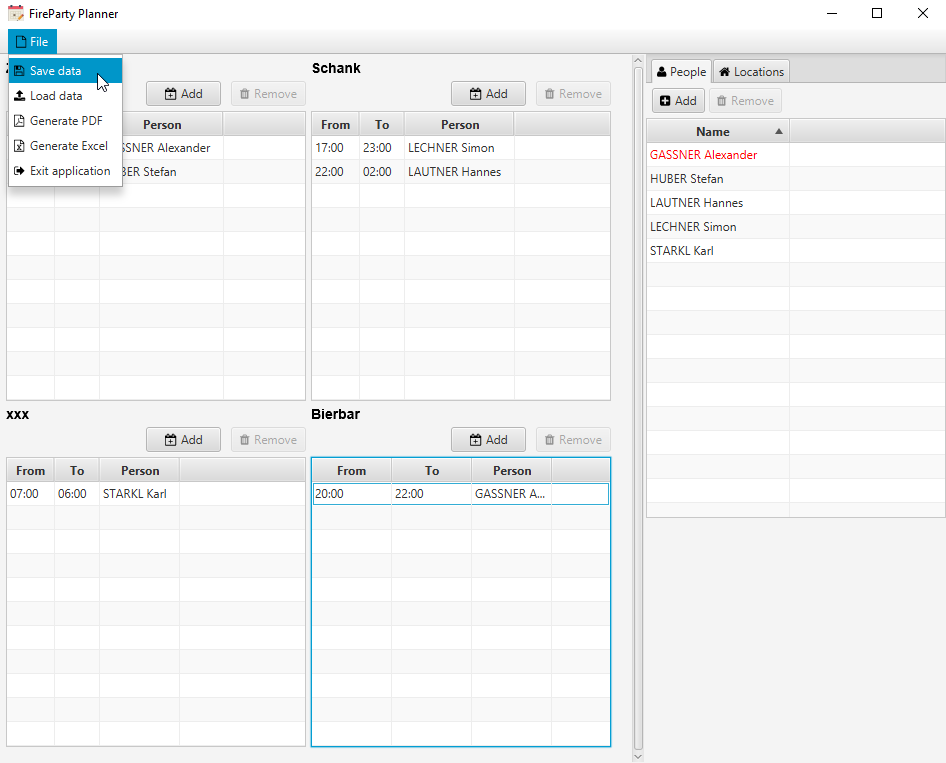
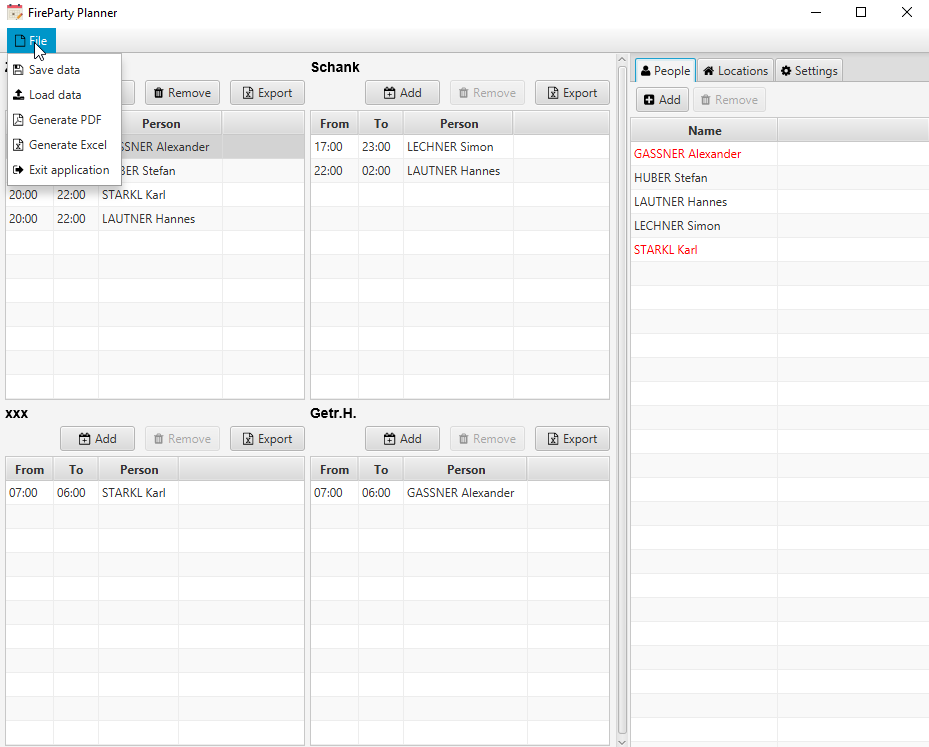
add sheet name; add single excel export;

diff --git a/src/main/java/at/agsolutions/fireparty/ui/RootPane.java b/src/main/java/at/agsolutions/fireparty/ui/RootPane.java
@@ -1,10 +1,12 @@
 package at.agsolutions.fireparty.ui;
 
+import at.agsolutions.fireparty.FirePartyApplication;
 import at.agsolutions.fireparty.domain.Disposition;
 import at.agsolutions.fireparty.domain.Location;
 import at.agsolutions.fireparty.domain.PartyHour;
 import at.agsolutions.fireparty.domain.Person;
 import at.agsolutions.fireparty.service.IDataService;
+import at.agsolutions.fireparty.service.IExportService;
 import javafx.collections.FXCollections;
 import javafx.collections.ListChangeListener;
 import javafx.collections.ObservableList;
@@ -18,32 +20,38 @@ import javafx.scene.layout.VBox;
 import javafx.scene.text.Font;
 import javafx.scene.text.FontWeight;
 import javafx.scene.text.Text;
+import javafx.stage.FileChooser;
 import lombok.extern.slf4j.Slf4j;
 import org.kordamp.ikonli.fontawesome.FontAwesome;
 import org.kordamp.ikonli.javafx.FontIcon;
 
 import javax.inject.Inject;
+import java.io.File;
 import java.util.Collection;
+import java.util.List;
 import java.util.stream.Collectors;
 
 @Slf4j
 public class RootPane extends BorderPane {
 
 	private static final int SPACING = 5;
-	private static final int LOCATION_FONT_SIZE = 14;
-	private static final String LOCATION_FONT_FACE = "Arial";
+	private static final int FONT_SIZE_HEADER = 14;
+	private static final String FONT_FACE = "Arial";
 
 	private static final String PEOPLE_TAB_TITLE = "People";
 	private static final String LOCATIONS_TAB_TITLE = "Locations";
+	private static final String SETTINGS_TAB_TITLE = "Settings";
 
 	private final SidebarEditor<Person> personEditor;
 	private IDataService dataService;
+	private IExportService exportService;
 	private Model model = new Model();
 	private FlowPane flowPane;
 
 	@Inject
-	public RootPane(IDataService dataService) {
+	public RootPane(IDataService dataService, IExportService exportService) {
 		this.dataService = dataService;
+		this.exportService = exportService;
 
 		addMenuBar();
 		personEditor = new SidebarEditor<>(model.getPeople(), "person", Person::new, Person::getName);
@@ -101,7 +109,12 @@ public class RootPane extends BorderPane {
 		locationTab.setGraphic(new FontIcon(FontAwesome.HOME));
 		locationTab.setContent(new SidebarEditor<>(model.getLocations(), "locations", Location::new, Location::getName));
 
-		tabPane.getTabs().addAll(personTab, locationTab);
+		Tab settingsTab = new Tab(SETTINGS_TAB_TITLE);
+		settingsTab.setClosable(false);
+		settingsTab.setGraphic(new FontIcon(FontAwesome.GEAR));
+		settingsTab.setContent(new SettingsView(model));
+
+		tabPane.getTabs().addAll(personTab, locationTab, settingsTab);
 		return tabPane;
 	}
 
@@ -112,6 +125,8 @@ public class RootPane extends BorderPane {
 
 		model.getPeople().addAll(dataService.getPeople());
 		model.getLocations().addAll(dataService.getLocations());
+
+		model.getSheetName().set(dataService.getSheetName());
 
 		validateData();
 	}
@@ -136,7 +151,7 @@ public class RootPane extends BorderPane {
 	private void addLocationTo(Location loc) {
 		VBox box = new VBox(SPACING);
 		Text location = new Text(loc.getName());
-		location.setFont(Font.font(LOCATION_FONT_FACE, FontWeight.BOLD, LOCATION_FONT_SIZE));
+		location.setFont(Font.font(FONT_FACE, FontWeight.BOLD, FONT_SIZE_HEADER));
 		box.getChildren().add(location);
 
 		ObservableList<Disposition> dispos = FXCollections.observableArrayList();
@@ -164,13 +179,34 @@ public class RootPane extends BorderPane {
 			remove.setDisable(newSelection == null);
 		});
 
+		Button export = new Button("Export");
+		export.setGraphic(new FontIcon(FontAwesome.FILE_EXCEL_O));
+		export.setOnAction(e -> handleSingleExcelExport(loc.getName(), table.getItems()));
+
 		ButtonBar bar = new ButtonBar();
-		bar.getButtons().addAll(add, remove);
+		bar.getButtons().addAll(add, remove, export);
 		box.getChildren().add(bar);
 
 		box.getChildren().add(table);
 		flowPane.getChildren().add(box);
 		model.getTableData().put(table, dispos);
+	}
+
+	private void handleSingleExcelExport(final String name, final List<Disposition> dispositions) {
+		FileChooser fileChooser = new FileChooser();
+		fileChooser.getExtensionFilters().add(new FileChooser.ExtensionFilter("Excel files (*.xlsx)", "*.xlsx"));
+		fileChooser.setTitle("Save Excel");
+		fileChooser.setInitialFileName(name);
+		try {
+			File file = fileChooser.showSaveDialog(FirePartyApplication.getStage());
+			if (file != null) {
+				exportService.exportExcel(dispositions, file, name);
+			}
+		} catch (Exception ex) {
+			String message = "Excel export of " + name + " failed";
+			log.error(message, ex);
+			MessageProvider.showError(message);
+		}
 	}
 
 	private void validateData() {

diff --git a/src/main/java/at/agsolutions/fireparty/service/impl/ExportService.java b/src/main/java/at/agsolutions/fireparty/service/impl/ExportService.java
@@ -19,6 +19,8 @@ import org.apache.poi.xssf.usermodel.XSSFWorkbook;
 import java.io.File;
 import java.io.FileOutputStream;
 import java.io.IOException;
+import java.time.LocalDateTime;
+import java.time.format.DateTimeFormatter;
 import java.util.*;
 import java.util.stream.Collectors;
 
@@ -30,7 +32,7 @@ public class ExportService implements IExportService {
 	private static final String TIME_SEPARATOR = " - ";
 
 	@Override
-	public void exportPdf(final List<Disposition> dispositions, final File file) throws IOException {
+	public void exportPdf(final List<Disposition> dispositions, final File file, String title) throws IOException {
 		List<List> tableData = new ArrayList<>();
 		dispositions.stream().map(Disposition::getLocation).collect(Collectors.toCollection(TreeSet::new)).forEach(l -> {
 			tableData.add(new ArrayList<>(Arrays.asList(l.getName(), SPACES)));
@@ -61,7 +63,7 @@ public class ExportService implements IExportService {
 	}
 
 	@Override
-	public void exportExcel(final List<Disposition> dispositions, final File file) throws IOException {
+	public void exportExcel(final List<Disposition> dispositions, final File file, String title) throws IOException {
 		try (XSSFWorkbook workBook = new XSSFWorkbook(); FileOutputStream outputStream = new FileOutputStream(file)) {
 			Sheet sheet = workBook.createSheet(WorkbookUtil.createSafeSheetName("Dispositions"));
 
@@ -114,6 +116,11 @@ public class ExportService implements IExportService {
 			fontBold.setFontName("Arial");
 			fontBold.setBold(true);
 
+			Font titleFont = workBook.createFont();
+			titleFont.setFontHeightInPoints((short)12);
+			titleFont.setFontName("Arial");
+			titleFont.setBold(true);
+
 			CellStyle cellStyle = workBook.createCellStyle();
 			cellStyle.setBorderBottom(CellStyle.BORDER_THIN);
 			cellStyle.setBorderTop(CellStyle.BORDER_THIN);
@@ -144,7 +151,14 @@ public class ExportService implements IExportService {
 			cellStyleGrayRed.cloneStyleFrom(cellStyleGray);
 			cellStyleGrayRed.setFont(fontRed);
 
-			int rowIndex = 0;
+			CellStyle titleCellStyle = workBook.createCellStyle();
+			titleCellStyle.setFont(titleFont);
+			titleCellStyle.setVerticalAlignment(CellStyle.VERTICAL_CENTER);
+
+			CellStyle simpleCellStyle = workBook.createCellStyle();
+			simpleCellStyle.setFont(font);
+
+			int rowIndex = 1;
 			int columnIndex = 1;
 			Row headerRow = sheet.createRow(rowIndex);
 			headerRow.setRowStyle(cellStyleYellowBold);
@@ -232,6 +246,16 @@ public class ExportService implements IExportService {
 				current = nextHour;
 				columnIndex++;
 			}
+
+			Cell metaInfo = sheet.createRow(rowIndex + 2).createCell(0);
+			metaInfo.setCellValue("Created: " + LocalDateTime.now().format(DateTimeFormatter.ISO_LOCAL_DATE_TIME));
+			metaInfo.setCellStyle(simpleCellStyle);
+
+			Row titleRow = sheet.createRow(0);
+			titleRow.setHeightInPoints(25);
+			Cell titleCell = titleRow.createCell(0);
+			titleCell.setCellStyle(titleCellStyle);
+			titleCell.setCellValue(title);
 
 			workBook.write(outputStream);
 		}

diff --git a/src/main/java/at/agsolutions/fireparty/ui/FileMenu.java b/src/main/java/at/agsolutions/fireparty/ui/FileMenu.java
@@ -64,7 +64,8 @@ public class FileMenu extends Menu {
 							dataService.save(file, new SerializableFileHolder(
 									new ArrayList<>(model.getPeople()),
 									new ArrayList<>(model.getLocations()),
-									extractDispositions()));
+									extractDispositions(),
+									model.getSheetName().getValueSafe()));
 						} catch (Exception e) {
 							showAndLogError("Failed to save data", e);
 						}
@@ -76,7 +77,7 @@ public class FileMenu extends Menu {
 					try {
 						File file = fileChooser.showSaveDialog(FirePartyApplication.getStage());
 						if (file != null) {
-							exportService.exportPdf(extractDispositions(), file);
+							exportService.exportPdf(extractDispositions(), file, model.getSheetName().getValueSafe());
 						}
 					} catch (Exception ex) {
 						showAndLogError("Failed to generate overview PDF", ex);
@@ -88,7 +89,7 @@ public class FileMenu extends Menu {
 					try {
 						File file = fileChooser.showSaveDialog(FirePartyApplication.getStage());
 						if (file != null) {
-							exportService.exportExcel(extractDispositions(), file);
+							exportService.exportExcel(extractDispositions(), file, model.getSheetName().getValueSafe());
 						}
 					} catch (Exception ex) {
 						showAndLogError("Failed to generate overview Excel", ex);
@@ -111,6 +112,7 @@ public class FileMenu extends Menu {
 			FileChooser fileChooser = new FileChooser();
 			fileChooser.getExtensionFilters().add(new FileChooser.ExtensionFilter(extensionDescription, extensionFilter));
 			fileChooser.setTitle(chooserTitle);
+			fileChooser.setInitialFileName(model.getSheetName().getValueSafe());
 			action.accept(fileChooser);
 		});
 	}

diff --git a/src/main/java/at/agsolutions/fireparty/ui/SettingsView.java b/src/main/java/at/agsolutions/fireparty/ui/SettingsView.java
@@ -1,0 +1,37 @@
+package at.agsolutions.fireparty.ui;
+
+import javafx.geometry.Insets;
+import javafx.scene.control.Label;
+import javafx.scene.control.TextField;
+import javafx.scene.layout.GridPane;
+import javafx.scene.layout.Priority;
+
+public class SettingsView extends GridPane {
+
+	private static final String SHEET_NAME = "Sheet name";
+	private static final int SPACING = 10;
+
+	private final Model model;
+
+	public SettingsView(Model model) {
+		this.model = model;
+		initView();
+	}
+
+	private void initView() {
+		setHgap(SPACING);
+		setVgap(SPACING);
+		setPadding(new Insets(SPACING));
+
+		TextField sheetName = new TextField();
+		sheetName.textProperty().bindBidirectional(model.getSheetName());
+
+		final Label sheetNameLabel = new Label(SHEET_NAME);
+		sheetNameLabel.setLabelFor(sheetName);
+
+		add(sheetNameLabel, 0, 0);
+		setHgrow(sheetName, Priority.ALWAYS);
+		add(sheetName, 1, 0);
+	}
+
+}

diff --git a/src/main/java/at/agsolutions/fireparty/ui/Model.java b/src/main/java/at/agsolutions/fireparty/ui/Model.java
@@ -3,6 +3,7 @@ package at.agsolutions.fireparty.ui;
 import at.agsolutions.fireparty.domain.Disposition;
 import at.agsolutions.fireparty.domain.Location;
 import at.agsolutions.fireparty.domain.Person;
+import javafx.beans.property.SimpleStringProperty;
 import javafx.collections.FXCollections;
 import javafx.collections.ObservableList;
 import lombok.Getter;
@@ -16,4 +17,6 @@ public class Model {
 	private Map<DispositionTableView, ObservableList<Disposition>> tableData = new HashMap<>();
 	private ObservableList<Person> people = FXCollections.observableArrayList();
 	private ObservableList<Location> locations = FXCollections.observableArrayList();
+
+	private SimpleStringProperty sheetName = new SimpleStringProperty();
 }

diff --git a/src/main/java/at/agsolutions/fireparty/ui/SidebarEditor.java b/src/main/java/at/agsolutions/fireparty/ui/SidebarEditor.java
@@ -4,6 +4,7 @@ import at.agsolutions.fireparty.domain.Disposition;
 import javafx.beans.property.SimpleObjectProperty;
 import javafx.collections.ObservableList;
 import javafx.scene.control.*;
+import javafx.scene.layout.Priority;
 import javafx.scene.layout.VBox;
 import javafx.scene.paint.Color;
 import lombok.Setter;
@@ -117,6 +118,7 @@ public class SidebarEditor<T> extends VBox {
 		table = new TableView<>();
 		table.setItems(data);
 		table.getColumns().add(nameCol);
+		setVgrow(table, Priority.ALWAYS);
 
 		table.getSelectionModel().selectedItemProperty().addListener((obs, oldSelection, newSelection) -> {
 			remove.setDisable(newSelection == null);

diff --git a/src/main/java/at/agsolutions/fireparty/service/IExportService.java b/src/main/java/at/agsolutions/fireparty/service/IExportService.java
@@ -7,7 +7,7 @@ import java.io.IOException;
 import java.util.List;
 
 public interface IExportService {
-	void exportPdf(List<Disposition> dispositions, File file) throws IOException;
+	void exportPdf(List<Disposition> dispositions, File file, String title) throws IOException;
 
-	void exportExcel(List<Disposition> dispositions, File file) throws IOException;
+	void exportExcel(List<Disposition> dispositions, File file, String title) throws IOException;
 }

diff --git a/src/main/java/at/agsolutions/fireparty/service/impl/DataService.java b/src/main/java/at/agsolutions/fireparty/service/impl/DataService.java
@@ -32,6 +32,11 @@ public class DataService implements IDataService {
 	}
 
 	@Override
+	public String getSheetName() {
+		return data != null ? data.getSheetName() : "";
+	}
+
+	@Override
 	public Map<Disposition, Disposition> computeOverlaps(final List<Disposition> dispositions) {
 		Map<Disposition, Disposition> result = new HashMap<>();
 

diff --git a/src/main/java/at/agsolutions/fireparty/service/IDataService.java b/src/main/java/at/agsolutions/fireparty/service/IDataService.java
@@ -21,4 +21,6 @@ public interface IDataService {
 	void save(File file, SerializableFileHolder object) throws IOException;
 
 	void load(File file) throws IOException, ClassNotFoundException;
+
+	String getSheetName();
 }

diff --git a/src/main/java/at/agsolutions/fireparty/domain/SerializableFileHolder.java b/src/main/java/at/agsolutions/fireparty/domain/SerializableFileHolder.java
@@ -14,4 +14,6 @@ public class SerializableFileHolder implements Serializable {
 	private List<Person> people;
 	private List<Location> locations;
 	private List<Disposition> dispositions;
+
+	private String sheetName;
 }
